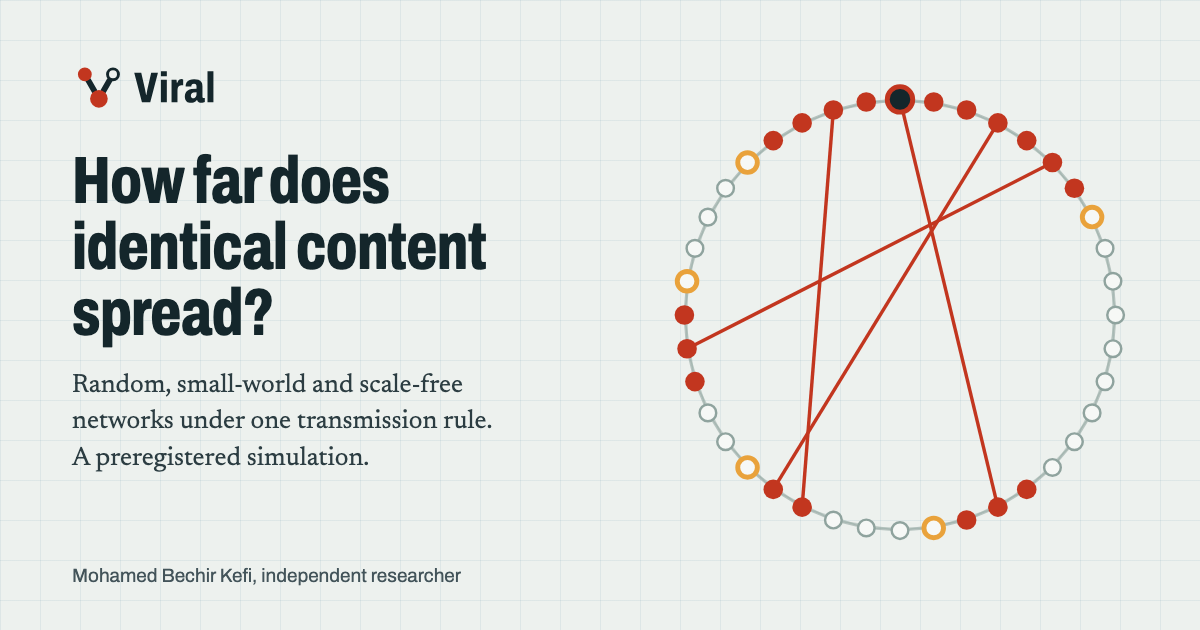
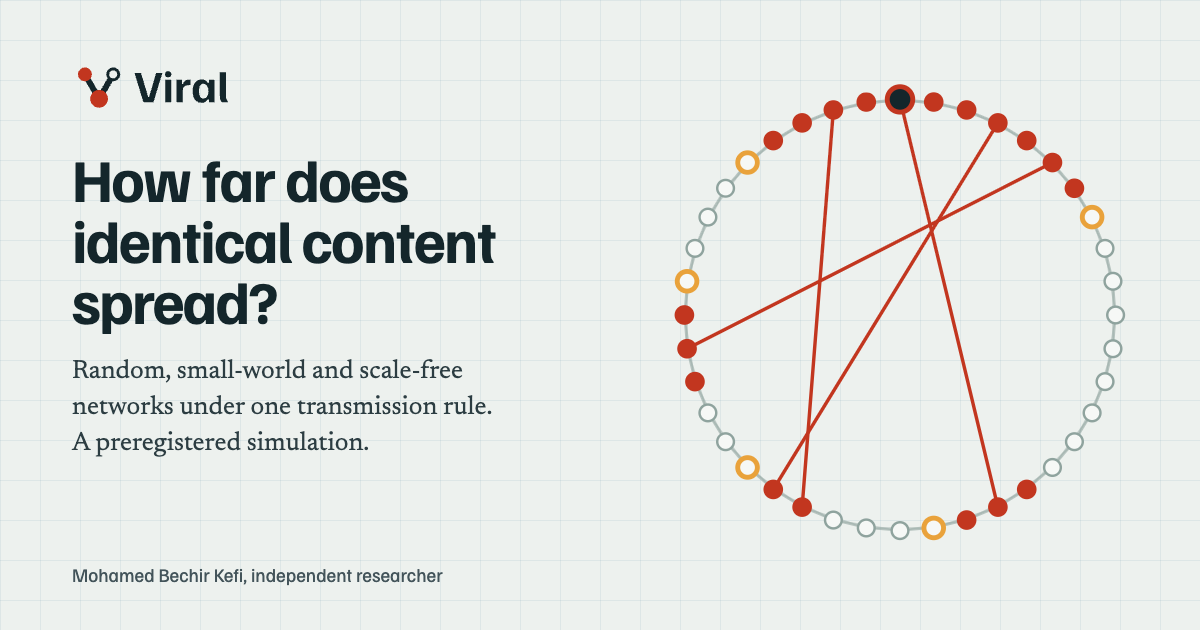
Demo: unique typeface pair across the labs (owner request 2026-11-26)

diff --git a/demo/src/style.css b/demo/src/style.css
@@ -1,13 +1,13 @@
 /* SPDX-License-Identifier: LicenseRef-VIRAL-NC-Research-1.0 */
 /* VIRAL: a field epidemiologist's map sheet. Sage map paper with a faint
    graticule, survey ink, contour grey for what has not been reached, incidence
-   red for what has, amber for the newest round. Archivo (condensed) for map
+   red for what has, amber for the newest round. Familjen Grotesk for map
    lettering and figures, Newsreader for reading. Light scheme only (see
    DESIGN.md). Fonts are bundled; nothing is fetched. */
 @font-face {
-  font-family: "Archivo Variable";
-  font-style: normal; font-display: swap; font-weight: 100 900; font-stretch: 62% 125%;
-  src: url("../node_modules/@fontsource-variable/archivo/files/archivo-latin-standard-normal.woff2") format("woff2-variations");
+  font-family: "Familjen Grotesk Variable";
+  font-style: normal; font-display: swap; font-weight: 400 700;
+  src: url("../node_modules/@fontsource-variable/familjen-grotesk/files/familjen-grotesk-latin-wght-normal.woff2") format("woff2-variations");
   unicode-range: U+0000-00FF, U+0131, U+0152-0153, U+02BB-02BC, U+02C6, U+02DA, U+02DC, U+0304, U+0308, U+0329, U+2000-206F, U+20AC, U+2122, U+2191, U+2193, U+2212, U+2215, U+FEFF, U+FFFD;
 }
 @font-face {
@@ -24,7 +24,7 @@
   --sesoi: rgba(95, 127, 18, 0.16); --edge: rgba(20, 38, 43, 0.22); --node-off: #b3c1bc;
   --measured: #1f5878; --assumption: #6b4e00; --sandbox: #8e2a17;
   --error-bg: #fdecec; --error-fg: #8a1111; --focus: #c2361f;
-  --display: "Archivo Variable", "Arial Narrow", sans-serif;
+  --display: "Familjen Grotesk Variable", "Helvetica Neue", Arial, sans-serif;
   --text: "Newsreader Variable", Charter, Georgia, serif;
   --ease-out: cubic-bezier(0.23, 1, 0.32, 1);
   color-scheme: light;
@@ -38,10 +38,10 @@ h1, h2, h3, h4, nav, .controls, .buttons, .legend, .meta, table, .badge, .label,
 .byline, .sandbox-out, .note-ui { font-family: var(--display); }
 .wrap { max-width: 72rem; margin: 0 auto; padding: 0 16px; }
 @media (min-width: 48rem) { .wrap { padding: 0 32px; } }
-h1, h2, h3, h4 { font-stretch: 78%; letter-spacing: -0.005em; }
-h2 { font-size: clamp(1.75rem, 3.6vw, 2.4rem); font-weight: 720; line-height: 1.08; margin: 0 0 0.8rem; max-width: 26ch; }
+h1, h2, h3, h4 { letter-spacing: -0.012em; }
+h2 { font-size: clamp(1.7rem, 3.4vw, 2.3rem); font-weight: 700; line-height: 1.1; margin: 0 0 0.8rem; max-width: 26ch; }
 h3 { font-size: 1.35rem; font-weight: 700; line-height: 1.2; margin: 0 0 0.5rem; }
-h4 { font-size: 1.08rem; font-weight: 680; margin: 1.2rem 0 0.4rem; }
+h4 { font-size: 1.08rem; font-weight: 650; margin: 1.2rem 0 0.4rem; }
 p, li, dd { max-width: 68ch; }
 a { color: var(--harbour); text-decoration-thickness: 1px; text-underline-offset: 0.18em; }
 :focus-visible { outline: 3px solid var(--focus); outline-offset: 3px; border-radius: 3px; }
@@ -60,18 +60,18 @@ code { overflow-wrap: anywhere; font-size: 0.86em; }
 nav { display: flex; margin-left: auto; overflow-x: auto; scrollbar-width: none; }
 nav::-webkit-scrollbar { display: none; }
 nav a { display: inline-flex; align-items: center; min-height: 44px; padding: 0 0.75rem; color: var(--ink); text-decoration: none;
-        font-size: 0.98rem; font-weight: 560; font-stretch: 88%; white-space: nowrap; border-bottom: 2px solid transparent;
+        font-size: 0.98rem; font-weight: 560; letter-spacing: -0.005em; white-space: nowrap; border-bottom: 2px solid transparent;
         transition: border-color 160ms ease; }
 @media (hover: hover) and (pointer: fine) { nav a:hover { border-bottom-color: var(--red); } }
-@media (max-width: 30rem) { nav a { padding: 0 0.45rem; font-size: 0.9rem; } }
+@media (max-width: 30rem) { nav a { padding: 0 0.4rem; font-size: 0.88rem; } }
 @media (max-width: 24rem) { .wordmark { display: none; } }
 
 /* hero */
 .hero { padding: clamp(2rem, 5vw, 3.75rem) 0 clamp(2rem, 4vw, 3rem); border-bottom: 1px solid var(--line); }
 .hero-copy { display: grid; gap: 1rem 3rem; align-items: end; margin-bottom: clamp(1.5rem, 3vw, 2.25rem); }
 @media (min-width: 60rem) { .hero-copy { grid-template-columns: minmax(0, 1.35fr) minmax(0, 1fr); } }
-.hero h1 { font-size: clamp(2.1rem, 5vw, 3.9rem); font-weight: 760; font-stretch: 74%; line-height: 1; margin: 0; max-width: 20ch;
-           text-wrap: balance; letter-spacing: -0.01em; }
+.hero h1 { font-size: clamp(2rem, 4.6vw, 3.6rem); font-weight: 700; line-height: 1.02; margin: 0; max-width: 21ch;
+           text-wrap: balance; letter-spacing: -0.024em; }
 .answer { font-size: clamp(1.15rem, 1.7vw, 1.3rem); line-height: 1.5; margin: 0 0 0.75rem; }
 .byline { color: var(--muted); font-size: 0.95rem; margin: 0; }
 .hero-copy > div > :last-child { margin-bottom: 0; }
@@ -87,7 +87,7 @@ nav a { display: inline-flex; align-items: center; min-height: 44px; padding: 0 
 @media (max-width: 40rem) { .t-node { r: 2.6px; } .t-hot { r: 3px; } .t-hot.t-seed { r: 4px; } .t-edges { stroke-width: 0.5; } .trio-name { font-size: 0.85rem; } .trio-name span { display: block; margin: 0; } }
 .trio-panel { min-width: 0; }
 .trio-svg { display: block; width: 100%; height: auto; aspect-ratio: 1; overflow: visible; }
-.trio-name { margin: 0.2rem 0 0; font-family: var(--display); font-weight: 700; font-stretch: 80%; font-size: 1.05rem; text-align: center; }
+.trio-name { margin: 0.2rem 0 0; font-family: var(--display); font-weight: 700; font-size: 1.05rem; letter-spacing: -0.01em; text-align: center; }
 .trio-name span { font-weight: 500; color: var(--muted); margin-left: 0.25rem; }
 .t-edges { stroke: var(--contour); stroke-opacity: 0.55; stroke-width: 0.35; fill: none; }
 .t-node { fill: var(--sheet); stroke: var(--contour); stroke-width: 0.6; }
@@ -155,7 +155,7 @@ dl.assumptions dt { font-family: var(--display); font-weight: 650; } dl.assumpti
 /* charts */
 figure.chart { margin: 1.2rem 0; min-width: 0; }
 figure.chart figcaption { font-size: 0.95rem; color: var(--muted); margin-bottom: 0.5rem; max-width: 72ch; }
-figure.chart figcaption strong { color: var(--ink); font-weight: 680; }
+figure.chart figcaption strong { color: var(--ink); font-weight: 650; }
 figure.chart svg { display: block; overflow: visible; }
 .tick-label { font: 500 12px var(--display); fill: var(--muted); }
 .direct-label { font: 700 13px var(--display); fill: var(--ink); }

diff --git a/demo/src/Brand.tsx b/demo/src/Brand.tsx
@@ -2,14 +2,14 @@
 // Brand mark and wordmark as inline SVG paths (same geometry as public/brand/*.svg).
 // The mark is a cascade in its first round: a seed (bottom) has passed the
 // content to one neighbour (filled) and not yet to the other (ring); the two
-// links draw a V. Wordmark: "Viral" in Archivo (OFL 1.1, weight 760, width 78),
+// links draw a V. Wordmark: "Viral" in Familjen Grotesk (OFL 1.1, weight 700),
 // converted to outlines.
 export const LINKS = "M121.12 144.09L87.65 86.11L63.4 100.11L96.88 158.09ZM159.12 158.09L192.6 100.11L168.35 86.11L134.88 144.09Z";
 export const SEED = "M86 184A42 42 0 1 0 170 184A42 42 0 1 0 86 184Z";
 export const LEFT = "M28.03 68A33 33 0 1 0 94.03 68A33 33 0 1 0 28.03 68Z";
 export const RIGHT = "M161.97 68A33 33 0 1 0 227.97 68A33 33 0 1 0 161.97 68ZM175.97 68A19 19 0 1 0 213.97 68A19 19 0 1 0 175.97 68Z";
-export const WORD = "M28.29 0 1.37 -103.07H25.85L39.13 -45.22Q39.66 -42.79 40.29 -39.26Q40.93 -35.72 41.62 -32.13Q42.32 -28.54 42.78 -25.76H43.8Q44.19 -27.74 44.76 -30.85Q45.33 -33.97 46.03 -37.7Q46.72 -41.43 47.4 -45.18L60.68 -103.07H84.33L57.45 0ZM94.75 -90.56V-108.62H115.48V-90.56ZM94.75 0V-79.07H115.48V0ZM131.95 0V-79.07H149.3L150.69 -67.78H151.48Q152.9 -71.78 155.01 -74.7Q157.11 -77.63 160.01 -79.27Q162.92 -80.9 166.56 -80.9Q168.32 -80.9 169.91 -80.58Q171.5 -80.26 172.62 -79.75V-59.39H165.84Q162.32 -59.39 159.82 -58.14Q157.31 -56.89 155.72 -54.38Q154.14 -51.88 153.41 -48.1Q152.68 -44.31 152.68 -39.29V0ZM199.78 1.8Q195.39 1.8 191.52 0.6Q187.65 -0.6 184.7 -3.19Q181.74 -5.79 180.09 -10Q178.44 -14.22 178.44 -20.15Q178.44 -27.22 181.04 -32.39Q183.64 -37.57 188.76 -40.96Q193.89 -44.35 201.58 -46Q209.27 -47.64 219.39 -47.64V-55.22Q219.39 -58.24 218.48 -60.35Q217.57 -62.46 215.65 -63.66Q213.73 -64.85 210.56 -64.85Q207.16 -64.85 205.09 -63.69Q203.01 -62.53 202.12 -60.61Q201.23 -58.69 201.23 -56.22V-54.83H181.47Q181.32 -55.46 181.32 -56.08Q181.32 -56.7 181.32 -57.46Q181.32 -65.09 184.94 -70.31Q188.56 -75.53 195.27 -78.2Q201.98 -80.87 211.19 -80.87Q219.62 -80.87 226.14 -78.51Q232.66 -76.15 236.39 -70.71Q240.12 -65.27 240.12 -55.91V-19.71Q240.12 -17.3 241.3 -15.97Q242.48 -14.63 244.61 -14.63H248.43V-0.9Q246.26 0.15 243.04 0.93Q239.81 1.71 235.98 1.71Q231.87 1.71 228.82 0.46Q225.77 -0.79 223.91 -3.06Q222.05 -5.32 221.4 -8.31H220.6Q218.59 -5.49 215.73 -3.19Q212.88 -0.89 208.97 0.46Q205.07 1.8 199.78 1.8ZM207.77 -14.3Q210.36 -14.3 212.5 -15.36Q214.63 -16.42 216.17 -18.32Q217.71 -20.21 218.55 -22.89Q219.39 -25.56 219.39 -28.8V-35.5Q212.37 -35.5 208 -34.01Q203.63 -32.53 201.64 -29.79Q199.66 -27.05 199.66 -23.21Q199.66 -20.33 200.6 -18.33Q201.55 -16.32 203.36 -15.31Q205.17 -14.3 207.77 -14.3ZM257.8 0V-108.62H278.53V0Z";
-export const WORD_BOX = [1.37, -108.62, 278.53, 1.80] as const;
+export const WORD = "M30.38 0 1 -96.75V-97.5H22.25L46 -18H49L72.5 -97.5H92.75V-96.75L63.38 0ZM102.4 0V-75H122.65V0ZM112.53 -83.62Q107.15 -83.62 104.4 -86.44Q101.65 -89.25 101.65 -93.75Q101.65 -98.25 104.4 -101.06Q107.15 -103.88 112.53 -103.88Q117.9 -103.88 120.65 -101.06Q123.4 -98.25 123.4 -93.75Q123.4 -89.25 120.65 -86.44Q117.9 -83.62 112.53 -83.62ZM140.3 0V-75H158.8V-61.25H161.8Q162.55 -65 164.61 -68.31Q166.68 -71.62 170.93 -73.69Q175.18 -75.75 182.3 -75.75H186.3V-57.5H180.8Q170.18 -57.5 165.36 -52.12Q160.55 -46.75 160.55 -36V0ZM224.2 1.5Q213.7 1.5 206.95 -3.56Q200.2 -8.62 196.95 -17.5Q193.7 -26.38 193.7 -37.62Q193.7 -49.25 197.01 -58Q200.33 -66.75 207.08 -71.62Q213.83 -76.5 224.08 -76.5Q231.95 -76.5 237.01 -73.44Q242.08 -70.38 244.7 -65.25H247.7V-75H266.45V0H247.7V-9.75H244.7Q242.08 -5 237.08 -1.75Q232.08 1.5 224.2 1.5ZM229.45 -12.75Q237.08 -12.75 241.64 -19.44Q246.2 -26.12 246.2 -37.5Q246.2 -49 241.64 -55.62Q237.08 -62.25 229.45 -62.25Q222.58 -62.25 218.64 -56.06Q214.7 -49.88 214.7 -37.5Q214.7 -25.12 218.64 -18.94Q222.58 -12.75 229.45 -12.75ZM290.48 0Q286.98 -4 285.54 -9.06Q284.1 -14.12 284.1 -22.38V-100H304.35V-24.5Q304.35 -15 306.48 -9.69Q308.6 -4.38 312.1 -0.75V0Z";
+export const WORD_BOX = [1.00, -103.88, 312.10, 1.50] as const;
 
 export function Mark({ size = 28 }: { size?: number }) {
   return (

diff --git a/demo/src/App.tsx b/demo/src/App.tsx
@@ -107,7 +107,7 @@ cd demo && npm ci && npm test && npm run build`}</code></pre>
               licence. AI assistance: an AI research and development assistant (Claude, Anthropic) was used for code,
               analysis and drafting under the author's direction; it is not an author.
             </p>
-            <p>Typefaces: Archivo and Newsreader, both under the SIL Open Font License 1.1, bundled with this page.</p>
+            <p>Typefaces: Familjen Grotesk and Newsreader, both under the SIL Open Font License 1.1, bundled with this page.</p>
           </div>
         </div>
       </footer>

diff --git a/demo/DESIGN.md b/demo/DESIGN.md
@@ -24,10 +24,10 @@ Series in charts: ER harbour blue, WS moss `#5F7F12`, BA heather `#8A3F8F`, alwa
 
 ## Type
 
-- **Archivo** (variable, width 74 to 88, weight 500 to 760): map lettering. Condensed and heavy for the hero question and headings, as on a surveyed sheet; regular width for navigation, controls, tables, figure captions and chart labels, with tabular figures.
+- **Familjen Grotesk** (variable, weight 500 to 700): map lettering. A compact grotesk from a Stockholm studio with sharp, slightly irregular details, set bold and tightly tracked for the hero question and headings, like the lettering on a surveyed sheet; regular to medium for navigation, controls, tables, figure captions and chart labels, with tabular figures (`tnum`). Chosen in the unique-typeface round (owner request of 2026-11-26: no two labs share a family); it replaces Archivo, which needed its width axis to look condensed, whereas Familjen is compact by drawing and keeps the map-label character at its natural width.
 - **Newsreader** (variable weight): the reading face for paragraphs, verdicts and notes, like a public-health bulletin.
 
-Scale: 18 px body; headings 22, 28 to 38 (fluid); hero 34 to 62 (fluid). Body measure capped at 68 characters.
+Scale: 18 px body; headings 22, 27 to 37 (fluid); hero 32 to 58 (fluid), tracked -0.024 em because the face opens up at display sizes. Body measure capped at 68 characters.
 
 ## Layout
 
@@ -38,7 +38,7 @@ Scale: 18 px body; headings 22, 28 to 38 (fluid); hero 34 to 62 (fluid). Body me
 | HOW DO NETWORK TOPOLOGY AND        |  Answer in one sentence        |
 | INITIAL EXPOSURE CHANGE HOW FAR    |  (Newsreader, 20 px)           |
 | IDENTICAL CONTENT SPREADS?         |  byline                        |
-| (Archivo condensed 760)            |                                |
+| (Familjen Grotesk 700)             |                                |
 +---------------------------------------------------------------------+
 | map sheet with graticule                                             |
 |  [ Random ER ]      [ Small-world WS ]      [ Scale-free BA ]        |
@@ -72,6 +72,6 @@ Three network shapes side by side on a surveyed sheet, lighting up from one seed
 - A dark "situation room" map was considered first, with glowing red nodes; that is the near-black with one hot accent tell; moved to a pale survey sheet where red reads as incidence on paper.
 - The old page had an uppercase tracked kicker and uppercase result labels. Removed: the study name is in the lockup, and labels are sentence case.
 - Setting the hero numbers (13 of 14, 7 of 14) in large type was considered and dropped: a big number with a small label is the default hero; the numbers stay in the text where they are qualified.
-- No mono data labels: figures use Archivo with tabular figures; monospace is kept only for commands, paths and claim ids, which are code.
+- No mono data labels: figures use Familjen Grotesk with tabular figures; monospace is kept only for commands, paths and claim ids, which are code.
 - No section numbering (the sections are not a sequence) and no fade-up on every section; the only scroll-triggered motion is the chart reveal.
 - Distinct from the other labs: MATCH is a card table, HERD a line of people, FLOW a transit map; VIRAL is a field epidemiology sheet with three graphs.

diff --git a/progress.md b/progress.md
@@ -539,3 +539,26 @@ Brief: `labs/_shared/DEMO-BRAND-brief.md` (each demo its own brand, motion and p
 
 ### Next action
 Coordinator: push and redeploy `demo/dist`.
+
+## 2026-11-26: unique typeface pair across the labs (owner request)
+
+Brief: `labs/_shared/FONT-UNIQUE-brief.md` (no two lab demos share a type family). VIRAL row: display face changes, Familjen Grotesk with Newsreader.
+
+### Decisions
+- Archivo replaced by Familjen Grotesk variable (`@fontsource-variable/familjen-grotesk` 5.3.0, OFL 1.1, resolved with `npm_config_before=2026-11-12`, saved exact; latin weight file only). Newsreader 5.3.0 kept. Familjen has `tnum`, so figures stay in the display face with tabular figures.
+- Type scale re-tuned: no width axis, so every `font-stretch` was removed; weights capped at the face's 700; hero 32 to 58 px tracked -0.024 em, headings 27 to 37 px tracked -0.012 em; phone navigation padding 0.4 rem and 0.88 rem so the four links fit at 390 px without scrolling (nav scroll width 245 of 245).
+- Wordmark redrawn from Familjen Grotesk 700 outlines (fontTools instancer); lockups (`lockup.svg`, `-mono`, `-dark`), inline `Brand.tsx` paths and the Open Graph image re-exported; the mark and favicon carry no type and are byte-identical. `svg_audit.py`: mark 100/100; lockup 91/100 with one WARN for the near-miss angles of the V glyph (type design, left as drawn).
+- `DESIGN.md`, `README.md` third-party font notes and the footer font line updated.
+
+### Commands and actual outputs
+- `npm test`: Test Files 2 passed, Tests 30 passed (no test changed).
+- `npm run build`: index JS 267.61 kB (gzip 84.36 kB), CSS 13.97 kB, fonts 18.91 kB (Familjen) + 58.08 kB (Newsreader) woff2; `dist/` 637102 bytes.
+- `node tools/a11y_check.mjs dist`: keyboard 44 of 44, `A11Y-CHECK PASS`.
+- `uv run --locked pytest tests/test_demo_export.py`: 8 passed.
+- Screenshots in real time over the DevTools protocol on 127.0.0.1:5245, desktop 1440 and phone 390, checked for wrapping, overflow and clipped labels.
+
+### Deviations and incidents
+- None. No number, data, fixture, test expectation, accessible name or scientific wording changed. Nothing pushed or deployed.
+
+### Next action
+Coordinator: push and redeploy `demo/dist`.

diff --git a/demo/README.md b/demo/README.md
@@ -29,13 +29,13 @@ The data file `public/data/results.json` is written by `../scripts/export_demo_d
 
 ## Design and brand
 
-The page has its own identity (owner request of 2026-11-26), planned in `DESIGN.md`: a field epidemiology map sheet, Archivo for map lettering and Newsreader for reading. The hero is a labelled illustration (one cascade on each of three 56-node graphs, drawn with the sandbox's own generators and cascade rule), not study data. Brand files are in `public/brand/`: `mark.svg`, `mark-mono.svg`, `mark-dark.svg`, `lockup.svg`, `lockup-mono.svg`, `lockup-dark.svg`, `favicon.svg`, `favicon-32.png` and the Open Graph image `og.png` (1200 by 630). The wordmark is Archivo (weight 760, width 78) converted to outlines.
+The page has its own identity (owner request of 2026-11-26), planned in `DESIGN.md`: a field epidemiology map sheet, Familjen Grotesk for map lettering and Newsreader for reading. The hero is a labelled illustration (one cascade on each of three 56-node graphs, drawn with the sandbox's own generators and cascade rule), not study data. Brand files are in `public/brand/`: `mark.svg`, `mark-mono.svg`, `mark-dark.svg`, `lockup.svg`, `lockup-mono.svg`, `lockup-dark.svg`, `favicon.svg`, `favicon-32.png` and the Open Graph image `og.png` (1200 by 630). The wordmark is Familjen Grotesk (weight 700) converted to outlines.
 
 ## Third-party notes
 
 | Component | Version | Licence | Use |
 | --- | --- | --- | --- |
-| Archivo (`@fontsource-variable/archivo`) | 5.3.0 | SIL Open Font License 1.1 | Display and interface face, wordmark outlines; latin weight and width file only |
+| Familjen Grotesk (`@fontsource-variable/familjen-grotesk`) | 5.3.0 | SIL Open Font License 1.1 | Display and interface face, wordmark outlines; latin weight file only |
 | Newsreader (`@fontsource-variable/newsreader`) | 5.3.0 | SIL Open Font License 1.1 | Reading face; latin weight file only |
 
 Both are installed from npm with exact versions (resolved with `npm_config_before=2026-11-12`), bundled into `dist/` and served from the page's own origin.
